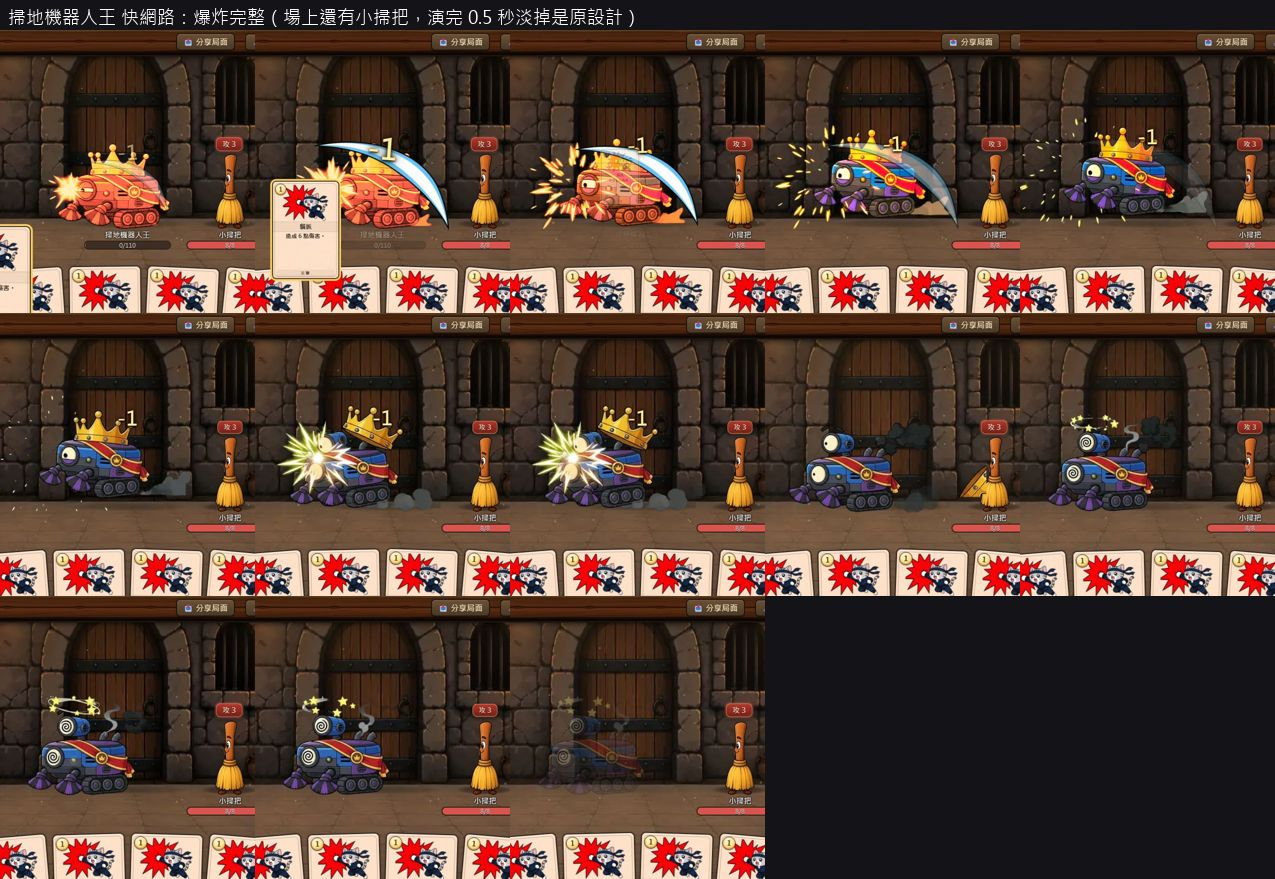
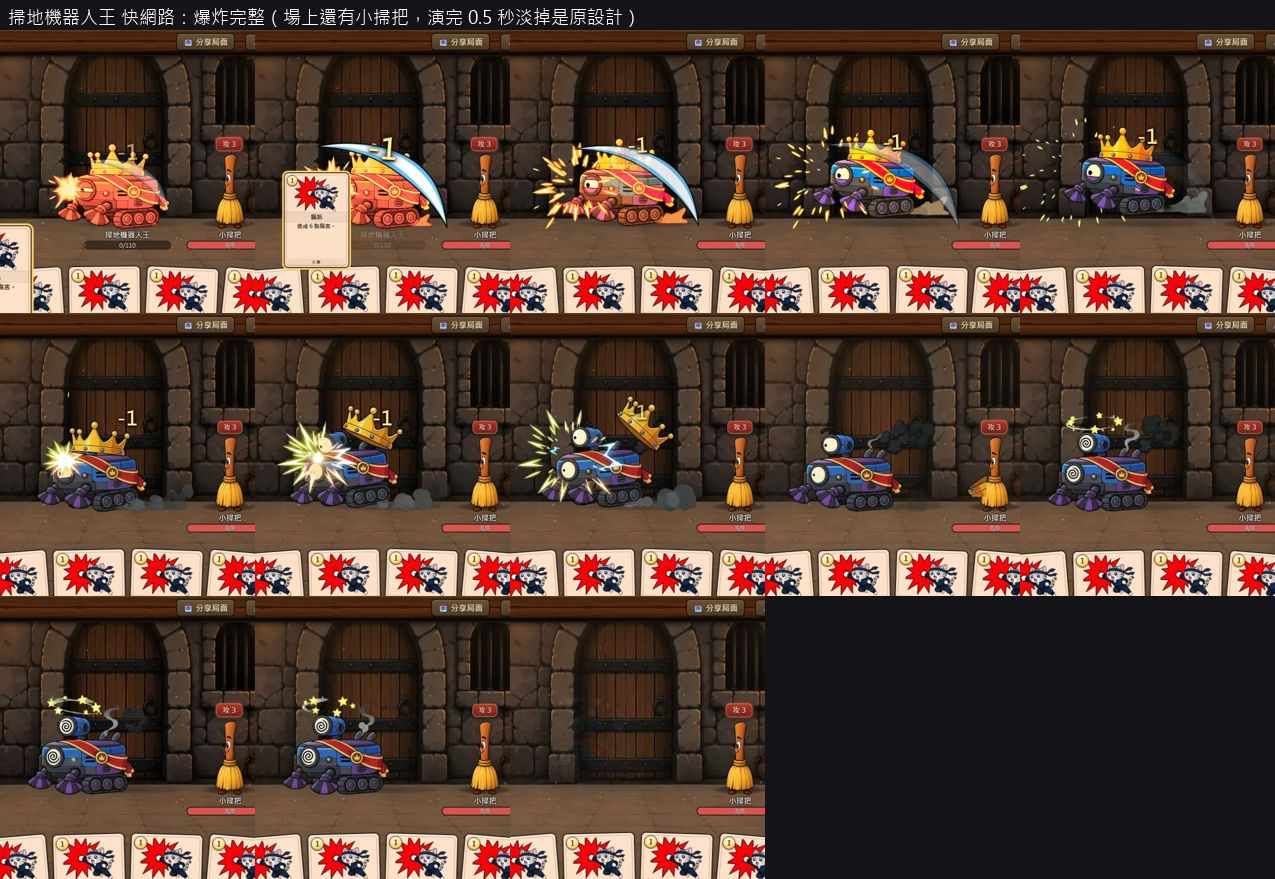
關主動畫報告更新：審查修正後的慢網路主角動作對照、第二階段時間、測試與閘門結果；連拍換成最終版

diff --git a/docs/關主動畫檢查_20261001.md b/docs/關主動畫檢查_20261001.md
@@ -45,7 +45,7 @@
 | 第一階段出招 | 逐格 | 逐格 | 開打 32 秒後圖集才到，之前原圖 | 同左（33 秒） | 逐格 | 同左（32 秒） |
 | 受擊 | 原圖受擊圖（沒有挨打片段，設計如此） | 同左 | 同左 | 同左 | 同左 | 同左 |
 | 換第二階段 | 原圖 | 原圖 | 原圖 | 原圖 | 原圖 | 原圖 |
-| 第二階段出招 | 逐格 | 逐格 | 變身後 **約 51 秒**才演得出來 | 同左（52 秒） | 逐格 | 變身後 28.6 秒；第一階段多打 40 秒的話 **0 秒** |
+| 第二階段出招 | 逐格 | 逐格 | 變身後 **約 51 秒**才演得出來 | 同左（52 秒） | 逐格 | 變身後 23～29 秒（最終版 `9c5b31fe` 兩次 23.0／23.6 秒） |
 | 倒下爆炸 | **原圖淡出，沒爆炸** | **原圖淡出，沒爆炸** | **原圖淡出** | **原圖淡出** | **爆炸完整**（2.7 秒、換格 32 次） | **爆炸完整**（換格 32 次） |
 
 掃地機器人王：上線前、現在、修後三版一樣——快網路出招、倒下爆炸都完整；慢網路（實際情境）開打約 31 秒後圖集到齊，之後出招、爆炸都完整。
@@ -60,28 +60,46 @@
 1. **倒下時把畫布掛回立繪框**（主修）：`combat.ts` 新增 `showEnemyMotion`，`finishEnemyMotion` 的長倒下與短倒下兩條路都先掛回去再演。
 2. **待機改畫立繪的那幾套不抓走路圖集**（慢網路）：那張從來不上畫面，卻被算進「這一套好了沒」。鐵爪第二階段的走路圖 735 KB 排在最後，
    害雷射與爆炸到了還要再等 20 多秒才演得出來（實測變身後 52 秒 → 28.6 秒）。`enemy-motion.ts` 的 `texturesOf`；畫布一建好也不先畫走路。
-   同一批挨打時不再播「挨打」（沒有這個片段，會退回走路）：畫布不在畫面上時播了也看不到，只會在背景去抓走路圖。
-3. **第二階段先下載、不解碼**（慢網路）：第一階段那套好了之後，先把第二階段的出招、爆炸圖集下載下來（`prefetchEnemyMotion`），
-   不解碼、不算就緒，第一階段不多壓記憶體（09-28 稽核低-2 的顧慮）；變身時只剩解碼。第一階段多打 40 秒的情境，變身後等 0 秒。
+   同一批挨打時一律不播「挨打」（沒有這個片段，會退回走路）：站著時播了也看不到、只會在背景去抓走路圖；
+   出招中被反彈打到也不再把出招換成走路、打斷收招（審查 低-2）。
+3. **第二階段先下載、不解碼、不插隊**：第一階段那套好了之後，把第二階段的出招、爆炸圖集排進下載（`prefetchEnemyMotion`），
+   不解碼、不算就緒，第一階段不多壓記憶體（09-28 稽核低-2 的顧慮）。**排在最後、不插隊**（審查 中：插隊會在慢網路把主角第一次用到的動作圖集擠到後面），
+   變身那一刻照舊插隊；下載失敗的從快取拿掉，變身時重抓（審查 低-3）。
+   效果：快網路第一階段一好就下載完，變身時只剩解碼；慢網路大圖集那一條還排著主角的圖，這兩張輪不到，等於變身才開始抓（變身後 23～29 秒），
+   不會跟主角搶。第一版（`d7127e69`）插隊時，第一階段多打 40 秒的情境變身後等 0 秒，這個好處為了不擠主角放掉了。
 
 4. **畫布一建好就畫該畫的動作**（補洞）：待機改立繪的那幾套建好時不再先畫走路，若剛好在「已倒下、不在等倒下」時才建，
    原本會記成倒下卻沒畫、變成空畫布；改成建立時就畫那個動作，等倒下中的記成待機、倒下那一拍從第一格開演。這條路實測沒走到，屬預防。
 
 沒有降畫質、沒有縮短爆炸、沒有讓勝利畫面等圖。
 
-**取捨（慢網路）**：第二階段先下載那兩張（雷射、爆炸）在第一階段約 30 秒內會佔住大圖集那一條的兩個位子，
-這段時間主角第一次用到的新動作，圖集會晚一點到（期間畫靜態姿勢，不會空白）。畫面比對閘門不量慢網路，這一點沒有實測。
+**主角動作有沒有被擠到（審查 中，實測）**：0.8 Mbps／300 毫秒冷快取、地圖停 2 分鐘再打鐵爪，第一階段出五張延後下載動作的牌
+（聚葉成刀＝空手擲出、運功＝運氣、千里眼＝翻卷軸、太極、輕功），每張隔 8 秒；coop `180a74c2` 與最終版 `9c5b31fe` 各跑兩次：
 
-**還剩的限制**：慢網路下，關主戰開打後約 30 秒內第一階段出招仍是原圖；第一階段太快打完（30 秒內變身、又在 30 秒內打死）時，
-第二階段的圖集可能還沒到，倒下照舊退回原圖淡出（不會卡住）。
+| | coop 第 1 次 | coop 第 2 次 | 最終版 第 1 次 | 最終版 第 2 次 |
+|---|---|---|---|---|
+| 五張牌的延後動作圖集（擲出、運氣、卷軸、太極、輕功） | 整場都還沒開始下載（五張都先用替身動作） | 同左 | 同左 | 同左 |
+| 主角其他延後圖集（中毒、翻肚待機）到齊 | 中毒 261.2 秒；翻肚沒到 | 中毒 261.2 秒；翻肚沒到 | 中毒 257.4、翻肚 257.7 秒 | 中毒 235.6、翻肚 257.7 秒 |
+| 第二階段雷射、爆炸送出 | 變身後 3～10 秒（變身才抓） | 同左 | 變身後 0.7～9 秒（排不到，變身才抓） | 變身後 4～6.5 秒 |
+| 變身後到第二階段演得出來 | 走路圖沒到，**整場演不出來** | 同左 | 23.0 秒 | 23.6 秒 |
+| 倒下爆炸 | 原圖淡出 | 原圖淡出 | **完整**（換格 31 次） | **完整**（換格 32 次） |
+
+最終版主角的圖沒有比 coop 晚（反而略早：不再抓魔物的走路圖）。慢網路下主角那五張延後動作在兩版都沒在這場關主戰內到，
+這是 coop 原本的狀況（大圖集那一條兩個位子還排著主角其他圖），不是這次造成的，也沒有在這次處理。
+
+**還剩的限制**：慢網路下，關主戰開打後約 30 秒內第一階段出招仍是原圖；變身後約 23 秒內就打死的話，
+第二階段的圖集還沒到，倒下照舊退回原圖淡出（不會卡住）。
 
 ## 測試與閘門
 
-- 新測試 `tests/ui/boss_death_motion_1001.test.ts`（跑 `combat.ts` 真正的那幾段）：倒下時畫布要掛回框、挨打時不播。拿掉掛回畫布那段紅 2 項、拿掉挨打不播那行紅 1 項（都實測過）。
-- `tests/ui/enemy_motion.test.ts` 加 4 項：鐵爪第二階段不抓走路圖、掃地機王照抓、先下載不解碼不算就緒、戰鬥畫面第一階段好了才先下載。拿掉修正會紅（實測 2 項紅）。
-- `npm test`：391 檔通過、7 檔略過（3939 項通過）。
-- 打包通過；`python tools/check_size.py`：首載程式 699.3 KB（699,337 位元組，跟現在 coop 一模一樣）。
-- `npm run gate:visual -- --base HEAD`（跟現在 coop 比）：四道門檻全通過——角色大小 329 項、貓窩位置 180 項、動作流暢度 24 項、事件圖片 267 項，不通過 0、要人看 0（最後一次報告 `F:\ClaudeWork\qiuqiu-gate-reports\20261001-100152\report.html`）。
+- 新測試 `tests/ui/boss_death_motion_1001.test.ts`（跑 `combat.ts` 真正的那幾段）：倒下時畫布掛回框、挨打一律不播（含出招中被反彈）、
+  建畫布時帶要畫的動作、第一階段好了才先下載第二階段（驗行為）。
+- `tests/ui/enemy_motion.test.ts`：鐵爪第二階段不抓走路圖、掃地機王照抓、先下載不解碼不算就緒、**先下載不插隊／變身時插隊**、先下載失敗會重抓。
+- 拿掉修正會紅（逐一實測）：先下載改回插隊紅 1、失敗不清快取紅 1、建畫布不帶動作紅 2、不等第一階段紅 1、挨打改回看畫面上紅 1；
+  第一版另驗過拿掉掛回畫布紅 2。`tests/ui/heavy_lane.test.ts` 的接線檢查跟著改（魔物圖集預設照舊插隊）。
+- `npm test`：391 檔通過、7 檔略過（3943 項通過）。
+- 用最後提交 `9c5b31fe` 打包；`python tools/check_size.py`：首載程式 699.3 KB（699,337 位元組，跟 coop 一模一樣）。
+- `npm run gate:visual -- --base 180a74c2`（跟 coop 比）：四道門檻全通過——角色大小 329 項、貓窩位置 180 項、動作流暢度 24 項、事件圖片 267 項，不通過 0、要人看 0（報告 `F:\ClaudeWork\qiuqiu-gate-reports\20261001-102236\report.html`）。
 - 抽查（快網路）：河童、蛙大名第二階段倒下，修前畫布 0%、修後有逐格倒下。
 
 ## 截圖
@@ -98,4 +116,5 @@
 另外 11 套魔物（見上）的倒下改成會演逐格倒下，是行為改變，請確認可以。
 
 重跑方法：`npm run build`，再 `node tools/perf/boss_motion_check.mjs dist <輸出夾> iron_claw fast`；
-慢網路實際情境加環境變數 `BOSS_DWELL_MS=120000 BOSS_ATLAS_WAIT_MS=90000`，參數 `fast` 換 `slow`。
+慢網路實際情境加環境變數 `BOSS_DWELL_MS=120000 BOSS_ATLAS_WAIT_MS=90000`，參數 `fast` 換 `slow`；
+主角出牌探針再加 `BOSS_HERO_PROBE=juye,yungong,qianliyan,taiji,qinggong BOSS_PROBE_GAP_MS=8000`。
